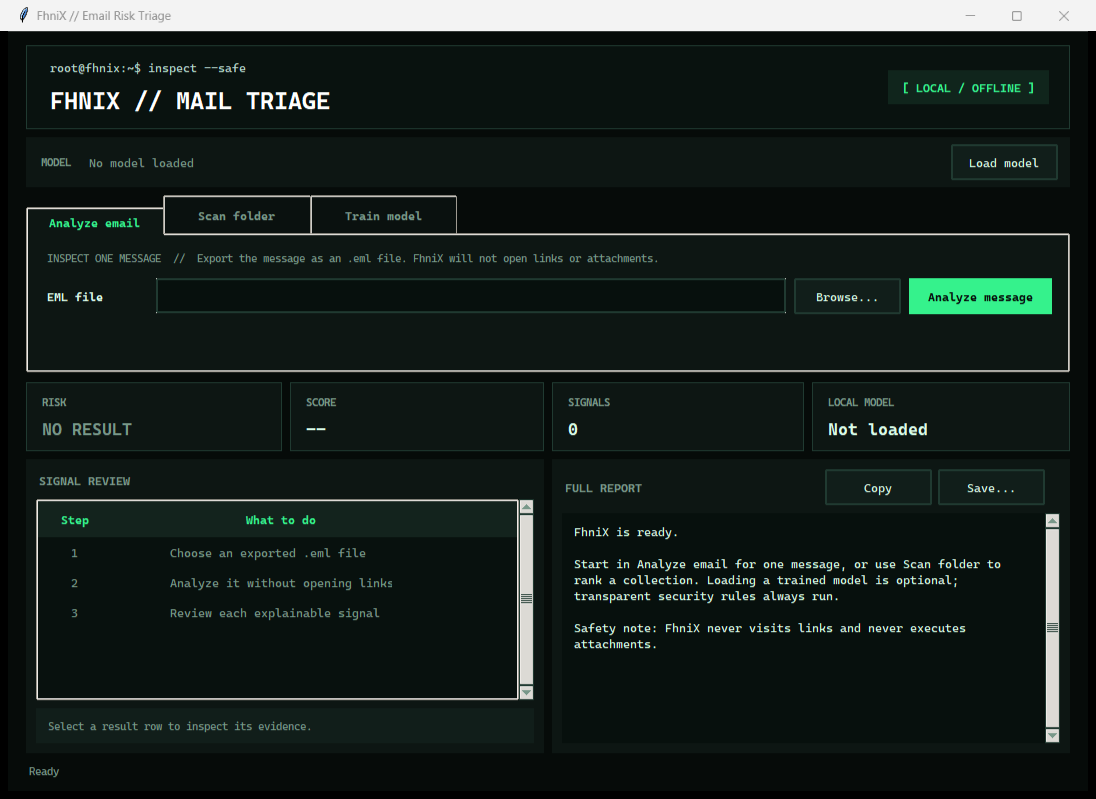
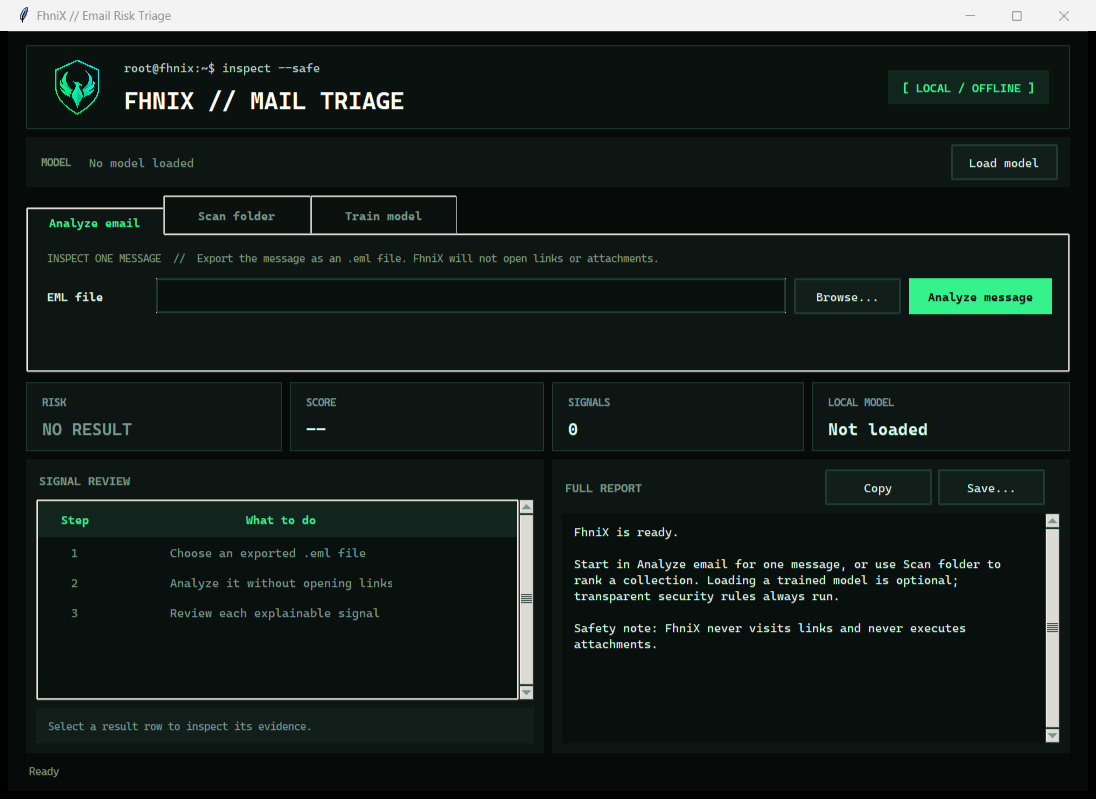
Add FhniX phoenix branding to the GUI

Changed region(s): [[0.031, 0.0601, 0.3723, 0.1502]]

diff --git a/phishlens/src/phishlens/gui.py b/phishlens/src/phishlens/gui.py
@@ -78,12 +78,22 @@ class FhniXApp:
         self._row_payload: dict[str, Finding | AnalysisResult] = {}
         self._displayed_report = ""
         self._scan_results: list[AnalysisResult] = []
+        self.brand_logo = self._load_brand_logo()
 
         self._configure_styles()
         self._build_layout()
         self._show_welcome()
         if initial_model_path is not None:
             self._load_model(initial_model_path, announce=False)
+
+    def _load_brand_logo(self) -> tk.PhotoImage | None:
+        logo_path = Path(__file__).resolve().parent / "assets" / "fhnix-logo.png"
+        try:
+            source = tk.PhotoImage(file=logo_path)
+        except tk.TclError:
+            return None
+        scale = max(1, max(source.width(), source.height()) // 58)
+        return source.subsample(scale, scale)
 
     def _configure_styles(self) -> None:
         style = ttk.Style(self.root)
@@ -206,7 +216,15 @@ class FhniXApp:
             highlightthickness=1,
             highlightbackground=self.BORDER,
         )
-        header.columnconfigure(0, weight=1)
+        header.columnconfigure(1, weight=1)
+
+        if self.brand_logo is not None:
+            tk.Label(
+                header,
+                image=self.brand_logo,
+                background=self.BRAND,
+                borderwidth=0,
+            ).grid(row=0, column=0, rowspan=2, sticky="w", padx=(0, 14))
 
         tk.Label(
             header,
@@ -214,14 +232,14 @@ class FhniXApp:
             background=self.BRAND,
             foreground="#B7D8CE",
             font=("Cascadia Mono", 9),
-        ).grid(row=0, column=0, sticky="w")
+        ).grid(row=0, column=1, sticky="w")
         tk.Label(
             header,
             text="FHNIX // MAIL TRIAGE",
             background=self.BRAND,
             foreground="#FFFFFF",
             font=("Cascadia Mono", 18, "bold"),
-        ).grid(row=1, column=0, sticky="w", pady=(2, 0))
+        ).grid(row=1, column=1, sticky="w", pady=(2, 0))
 
         badge = tk.Label(
             header,
@@ -232,7 +250,7 @@ class FhniXApp:
             padx=12,
             pady=7,
         )
-        badge.grid(row=0, column=1, rowspan=2, sticky="e")
+        badge.grid(row=0, column=2, rowspan=2, sticky="e")
         return header
 
     def _build_model_bar(self, parent: ttk.Frame) -> ttk.Frame:

diff --git a/phishlens/README.md b/phishlens/README.md
@@ -5,6 +5,10 @@
 <h1 align="center">FhniX</h1>
 
 <p align="center">
+  <img src="src/phishlens/assets/fhnix-logo.png" alt="FhniX phoenix shield logo" width="96">
+</p>
+
+<p align="center">
   Explainable, local-first phishing triage for exported emails and read-only IMAP mailbox scans.
 </p>
 
